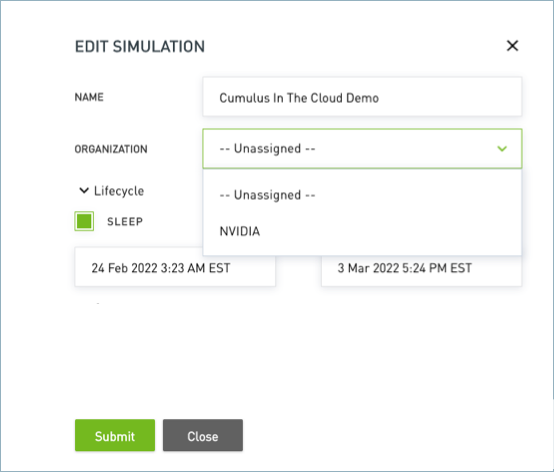
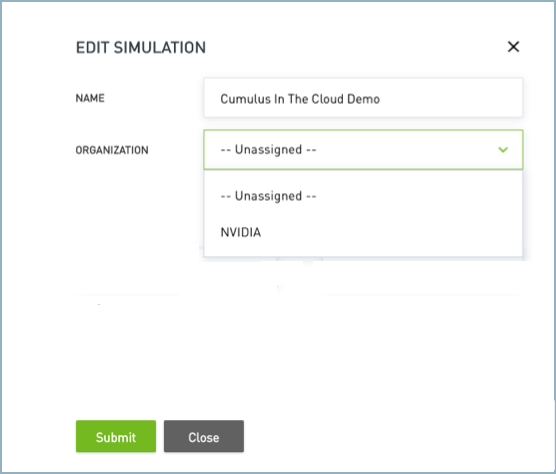
updates to screenshots

diff --git a/content/guides/nvidia-air/Quick-Start.md b/content/guides/nvidia-air/Quick-Start.md
@@ -162,7 +162,7 @@ From the NVIDIA Air landing page, you can manage your simulations.
 
  Each public simulation has three options:
 - **Power On or Off** wakes the simulation up or puts it to sleep.
-- **Edit** lets you change the simulation name and organization, and set the simulation to never expire or sleep.
+- **Edit** lets you change the simulation name and organization.
 - **Delete** removes the simulation.
 
 ## User Settings

diff --git a/content/guides/nvidia-air/Organizations.md b/content/guides/nvidia-air/Organizations.md
@@ -27,7 +27,7 @@ If you are an Organization Administrator, you can create and manage organization
 
 To see the list of current organizations, click **Organization List** from the **ORGANIZATIONS** dropdown in the left pane.
 
-{{<img src="/images/guides/nvidia-air/OrgList.png">}}
+{{<img src="/images/guides/nvidia-air/OrgList.png" width="800px">}}
 
 <div style="margin-top: 20px;"></div>
 
